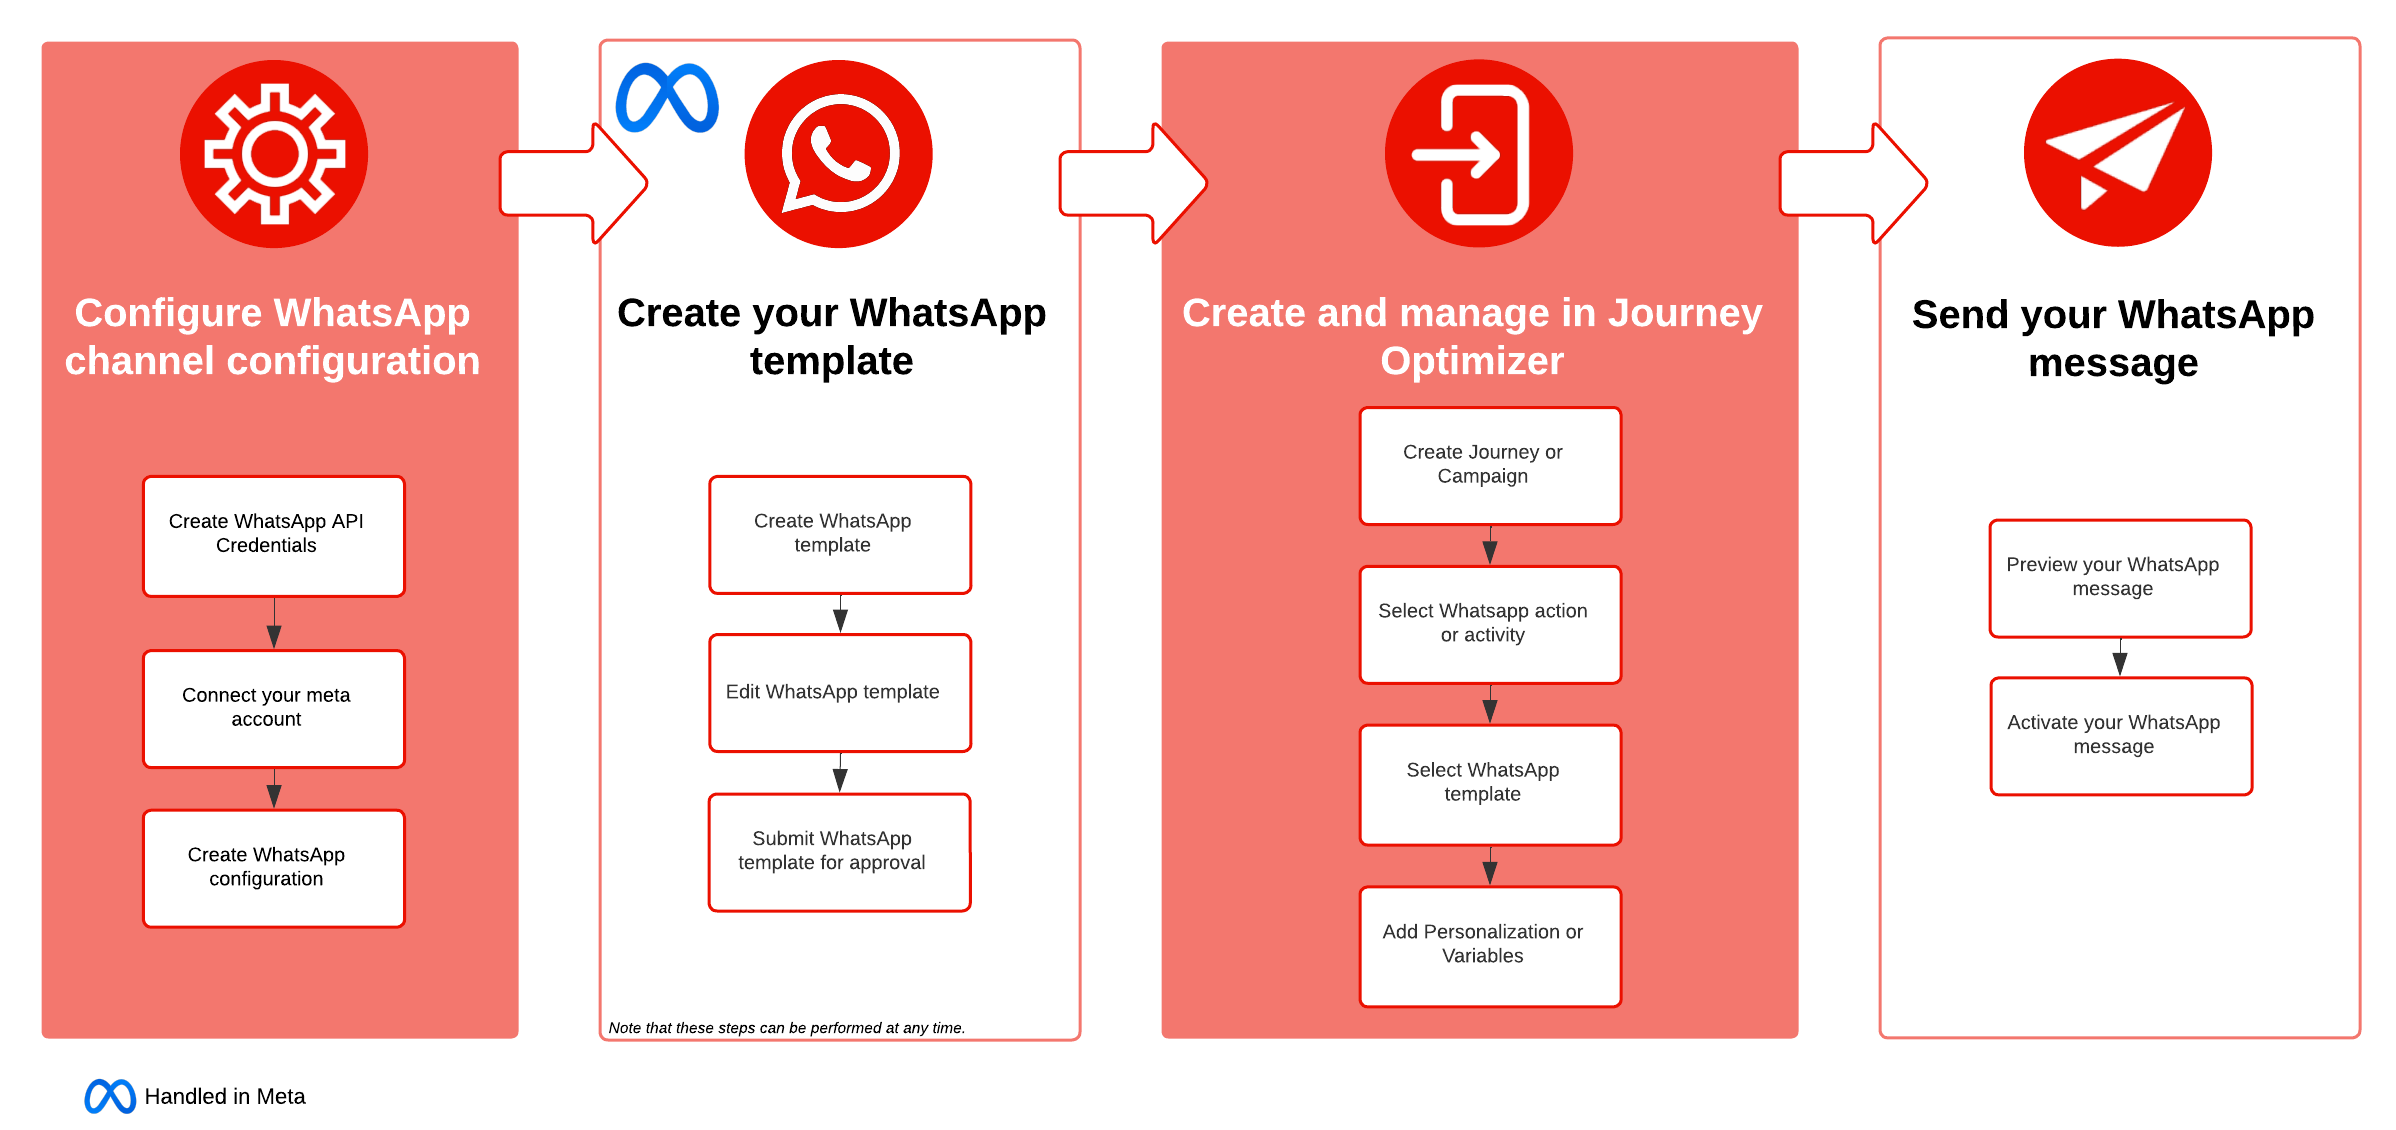
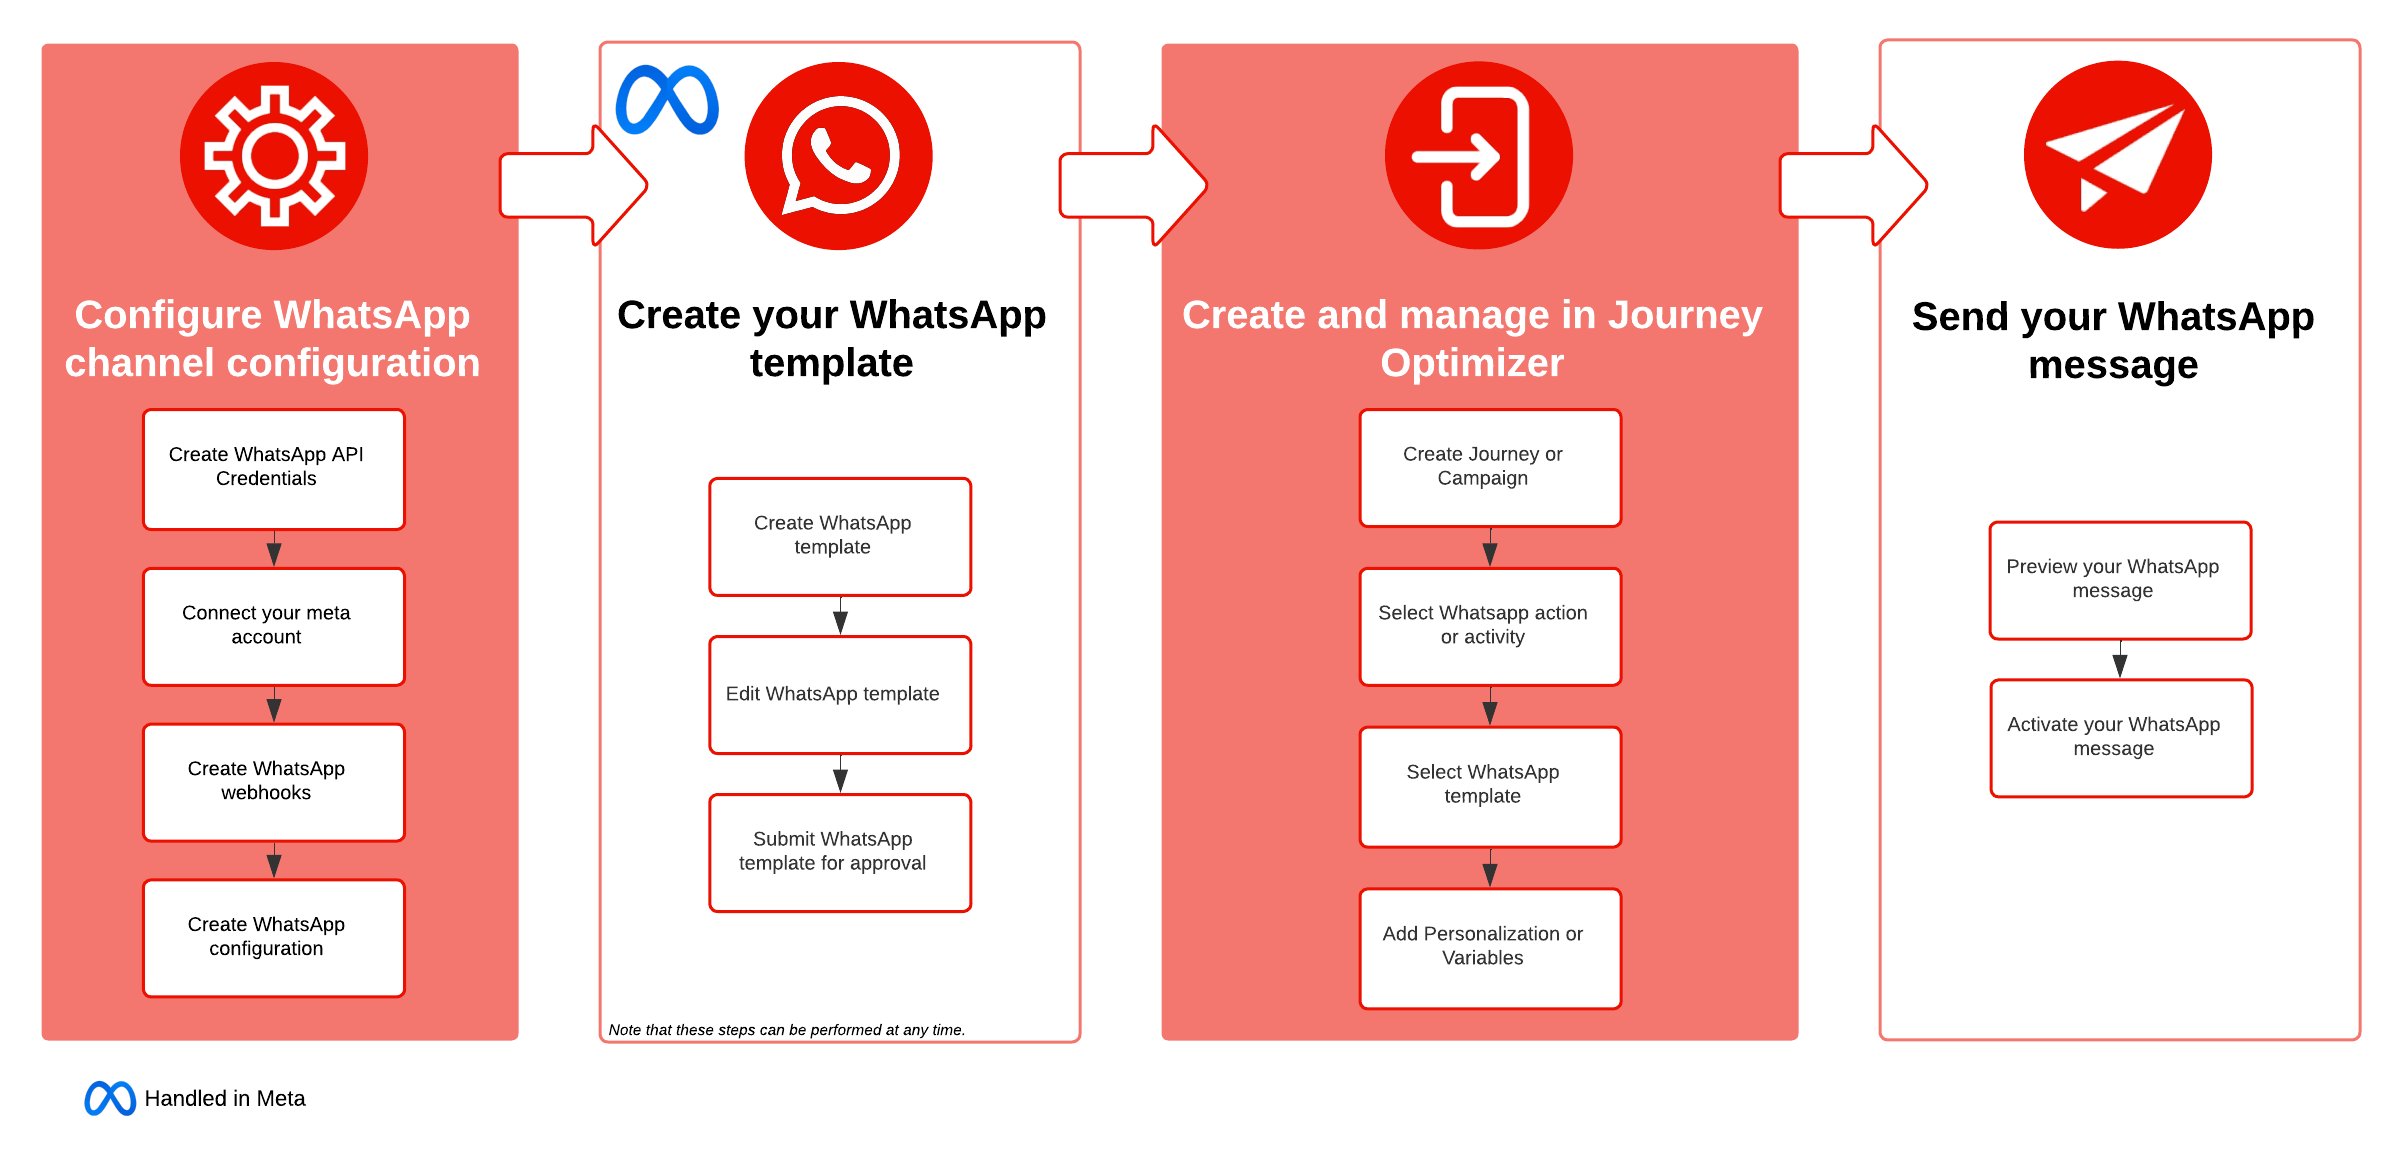
WhatsApp GA

diff --git a/help/using/whatsapp/whatsapp-configuration.md b/help/using/whatsapp/whatsapp-configuration.md
@@ -14,6 +14,8 @@ Before sending your WhatsApp message, you must configure your Adobe Journey Opti
 
 1. [Create your WhatsApp API credentials](#WhatsApp-credentials)
 1. [Create your WhatsApp configuration](#WhatsApp-configuration)
+1. [Create your WhatsApp Webhooks](#WhatsApp-webhook)
+
 
 These steps must be performed by an Adobe Journey Optimizer [System Administrator](../start/path/administrator.md).
 
@@ -34,7 +36,7 @@ These steps must be performed by an Adobe Journey Optimizer [System Administrato
 
     ![](assets/whatsapp-api-2.png)
 
-1. Select the **Phone number** used to send your Whatsapp messages.
+1. Select the **Sender name** used to send your Whatsapp messages.
 
 1. Your phone number settings is automatically filled:
 
@@ -84,5 +86,47 @@ After creating and configuring your API credential, you now need to create a cha
     >If the checks are not successful, learn more on the possible failure reasons in [this section](../configuration/channel-surfaces.md).  
 
 1. Once the checks are successful, the channel configuration gets the **[!UICONTROL Active]** status. It is ready to be used to deliver messages.
+
+## Create Webhook {#WhatsApp-webhook}
+
+>[!NOTE]
+>
+>Without specified opt-in or opt-out keywords, standard consent messages are not enabled.
+
+Once your WhatsApp API credentials have been successfully created, the next step is to create a webhook and configure your inbound settings.
+
+1. In the left rail, navigate to **[!UICONTROL Administration]** `>` **[!UICONTROL Channels]**, select the **[!UICONTROL WhatsApp Webhooks]** menu under **[!UICONTROL WhatsApp settings]**, and click the **[!UICONTROL Create Webhook]** button.
+
+    ![](assets/sms_byo_5.png)
+
+1. Enter a [!UICONTROL Name] for your webhook.
+
+1. From the drop-down, select the [Configuration](#whatsapp-configuration) you previously created.
+
+1. Click ![add](assets/do-not-localize/Smock_AddCircle_18_N.svg) to begin configuring an **[!UICONTROL Inbound keyword category]** such as:
+
+    * **[!UICONTROL Opt-in Keywords]**
+    * **[!UICONTROL Opt-out Keywords]**
+    * **[!UICONTROL Help Keywords]**
+
+1. Enter your **[!UICONTROL Keyword]**.
+
+    To add multiple keywords, click ![add](assets/do-not-localize/Smock_AddCircle_18_N.svg).
+
+1. Specify the **[!UICONTROL Reply Message]** to be sent when a configured keyword is received.
+
+<!--
+1. Click **[!UICONTROL View payload editor]** to validate and customize your request payloads. 
+    
+    You can dynamically personalize your payload using profile attributes, and ensure accurate data is sent for processing and response generation with the help of built-in helper functions.
+-->
+
+1. Click **[!UICONTROL Submit]** when you finished the configuration of your WhatsApp Webhook.
+
+1. In the **[!UICONTROL Webhooks]** menu, click the ![bin icon](assets/do-not-localize/Smock_Delete_18_N.svg) to delete your WhatsApp Webhook.
+
+1. To modify existing configuration, locate the desired Webhook and click the **[!UICONTROL Edit]** option to make the necessary changes.
+
+Once configured, you can leverage all out-of-the-box channel capabilities such as message authoring, personalization, link tracking, and reporting.
 
 You are now ready to send WhatsApp messages with Journey Optimizer.

diff --git a/help/using/whatsapp/get-started-whatsapp.md b/help/using/whatsapp/get-started-whatsapp.md
@@ -11,7 +11,7 @@ exl-id: 22df2bfa-4d86-464e-ad83-3aa457e3a747
 ---
 # Get started with WhatsApp messages {#get-started-whatsapp}
 
-You can now send WhatsApp messages directly through Journey Optimizer. This feature allows for seamless integration of WhatsApp into journeys and campaigns, enhancing communication and engagement with recipients. 
+You can now send WhatsApp messages directly through Journey Optimizer via Meta's [Cloud API](https://developers.facebook.com/docs/whatsapp/cloud-api/). This feature enables seamless integration of WhatsApp into journeys and campaigns, enhancing communication and engagement with recipients.
 
 * In a **Journey**. Create a journey, add a **WhatsApp** activity, and define basic settings, then browse to the **[!UICONTROL Actions: WhatsApp]** right pane to create the content for the WhatsApp message. Learn how to create a journey on [this page](../building-journeys/journey-gs.md).
 
@@ -26,23 +26,28 @@ Integrating WhatsApp with Journey Optimizer requires the following:
 * Meta Business Manager account
 * WhatsApp Business account
 * WhatsApp phone number
+* [User authorization token with appropriate permissions](https://developers.facebook.com/blog/post/2022/12/05/auth-tokens/) 
+* [Approved Meta templates](https://developers.facebook.com/docs/whatsapp/message-templates/guidelines/)
+* [Configuration of Meta Webhooks](https://developers.facebook.com/docs/whatsapp/webhooks/)
+
 
 You also need to aknowledge the following before proceeding with integration:
 
 * [WhatsApp content rules](https://www.whatsapp.com/legal/messaging-guidelines)
 * [Compliance with Meta Policies](https://www.whatsapp.com/legal)
 * [24 Hour conversation limits](https://developers.facebook.com/docs/whatsapp/messaging-limits/)
-* [Approved Meta templates](https://developers.facebook.com/docs/whatsapp/message-templates/guidelines/)
 
-## Beta limitations {#limitations}
+## Limitations {#limitations}
 
-The following features will not be included in this beta version:
+The following limitations apply to the WhatsApp channel:
 
-* **Reporting**: The ability to generate and view reports will not be available in this release.
+* The WhatsApp channel in Adobe Journey Optimizer is HIPAA-ready, but third-party vendors are not covered under Adobe's BAA. Customers are responsible for their own compliance and vendor validation.
 
-* **Opt-in/Opt-out keywords**: Users will not have the option to subscribe or unsubscribe using specific keywords at this stage.
+* Note that automated or predefined response messages are not be supported.
 
-* **Response messages**: Automated or predefined response messages will not be supported in this version.
+* Starting April 2025, delivery of all marketing template messages to WhatsApp users who have a United States phone number (a number composed of a +1 dialing code and a US area code) has been temporally suspended. [Learn more in Meta documentation](https://developers.facebook.com/docs/whatsapp/cloud-api/guides/send-message-templates#per-user-marketing-template-message-limits)
+
+* The native integration functionality does not allow integration with third-party Business Service Provider (BSP).
 
 ## How-to video {#video}
 

diff --git a/help/using/whatsapp/create-whatsapp.md b/help/using/whatsapp/create-whatsapp.md
@@ -134,8 +134,7 @@ Note that your WhatsApp template must first be approved by Meta before using it 
 
 1. Use the **[!UICONTROL Simulate content]** button to preview your WhatsApp message content, shortened URLs, and personalized content. [Learn more](send-whatsapp.md)
 
-Once you have performed your tests and validated the content, you can send your WhatsApp message to your audience. These steps are detailed on [this page](send-whatsapp.md)
-
+Once you have performed your tests and validated the content, you can [send your WhatsApp message](send-whatsapp.md) to your audience and monitor its performance through [reporting](../reports/campaign-global-report-cja.md). 
 
 <!--
 * **[!UICONTROL Template message]**: Predefined message imported from Meta into Journey Optimizer. These are intended for sending notifications, alerts, or updates to your customers.
